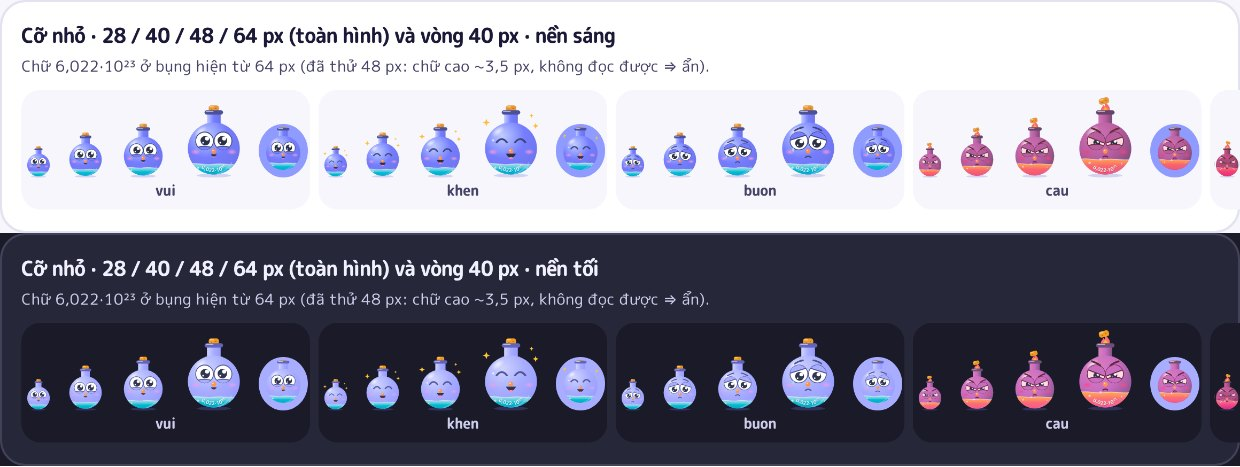
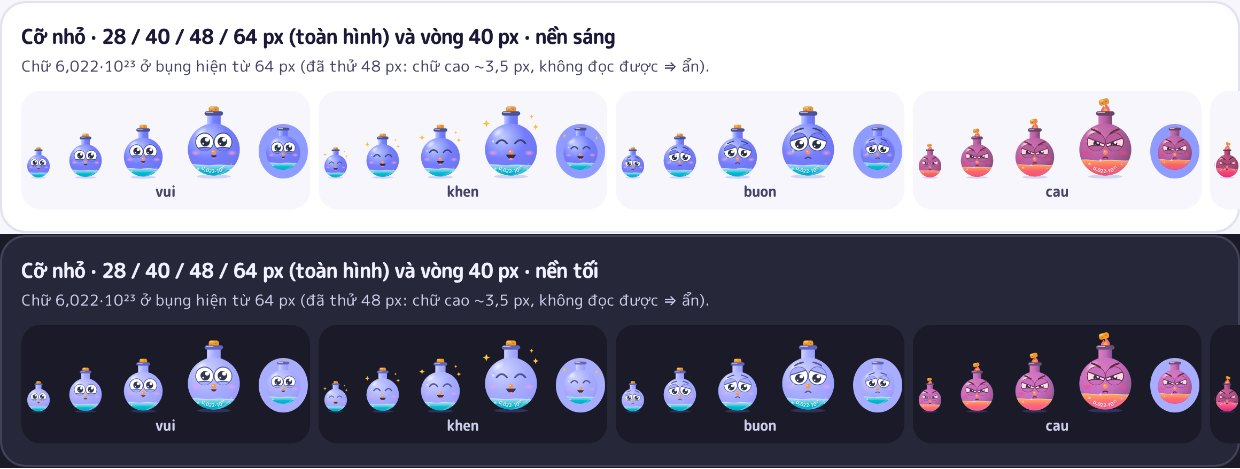
Ảnh nghiệm thu Mol từ mã thật: 3 bộ màu (sáng/tối), Lộ trình có bong bóng trên đầu Mol (cấp 4, cấp 5, câu dỗi dài, chân ngôn)
Claude-Session: https://claude.ai/code/session_01Ep3ep8fapn3LQteUN5cuuC

diff --git a/docs/ban-ve-mol-v2-0111/GHI-CHU.md b/docs/ban-ve-mol-v2-0111/GHI-CHU.md
@@ -1,3 +1,27 @@
+# Mol v2 — BUILD (thầy chốt «Chốt bình cầu, chọn cả 3 bộ màu thay đổi mỗi ngày»)
+
+- **3 bộ màu đổi mỗi ngày:** bộ 0 chàm sáng + ngọc lam · bộ 1 ngọc lam + hồng · bộ 2 chàm nhạt + cam (`binh-cau-mau.jpg`).
+  - Chọn bằng `src/lib/mau-mol-ngay.ts`: `boMauMol(giờ máy chủ)` = ngày VN mod 3, qua 00:00 VN đổi bộ.
+  - Mol mang `data-mol-mau`; CSS bộ 1 / 2 ở `mol.css`; giận đỏ sẫm dùng chung.
+  - Ảnh tĩnh giữ chỗ của bộ ngày khác bị bỏ (`Bi.tsx`).
+  - Ảnh: `binh-cau-3-bo-mau-sang.jpg`, `binh-cau-3-bo-mau-toi.jpg`.
+- **Bong bóng lời trên đầu Mol** (Lộ trình, mọi hướng màn): có Mol cạnh đường ⇒ mọi lời lên bong bóng trên đầu Mol, thay thẻ riêng ở trên.
+  - Tự căn rộng ≤ 280 px, không tràn mép, đuôi chỉ đầu Mol.
+  - Màu theo cảm xúc (`data-cx`, token, chuyển 300 ms); rất cáu viền đập nhẹ, giảm chuyển động ⇒ đứng yên.
+  - Lưu ý: bong bóng nằm trên đường đi (z-index 2) nên có thể che một phần nút chặng phía trên Mol.
+  - Ảnh: `binh-cau-lo-trinh-toi.jpg` (cấp 4), `binh-cau-lo-trinh-cap5-toi.jpg` (cấp 5), `binh-cau-lo-trinh-doi-sang.jpg` (câu dỗi dài), `binh-cau-lo-trinh-chan-ngon-sang.jpg` (chân ngôn).
+- **Kho câu (một tệp `src/lib/loi-mol.ts`):**
+  - **Giận vì câu chưa được tính** — gọi thẳng «đối phó» (thầy cho phép chữ này trong lời Mol giận):
+    - cấp 2 dỗi / 3 bực: câu ngắn + 5 câu dỗi của thầy;
+    - cấp 4 cáu: 3 câu;
+    - cấp 5 rất cáu: 3 câu (2 câu Boss gọt nhẹ từ nguyên văn thầy — ghi trong tệp).
+  - **Giận vì muộn:** giục vào học.
+  - **Chân ngôn:** nguyên văn thầy, hiện ở 1/3 lượt vui (in nghiêng, đặt trong «»).
+  - **Cách chọn:**
+    - Xoay vòng tất định theo lượt (số câu đã làm + ngày VN), không lặp liền câu vừa hiện.
+    - Lộ trình nhớ câu theo lượt ở `localStorage` `ddh.loi-mol`.
+    - Bỏ số / giải thích dài khỏi bong bóng; số câu, chuỗi vẫn ở vòng Mục tiêu và thẻ Chuỗi ngày.
+
 # Mol v2 — HƯỚNG HIỆN TẠI: GIỮ BÌNH CẦU, sửa thẳng mã thật (01/11 tối, chưa PR)
 
 Thầy: «Giữ nguyên hình cầu đi, điều chỉnh lại cảm xúc cho dễ thương, thêm 6,022, phối màu lại cho đẹp mịn siêu dễ thương».
